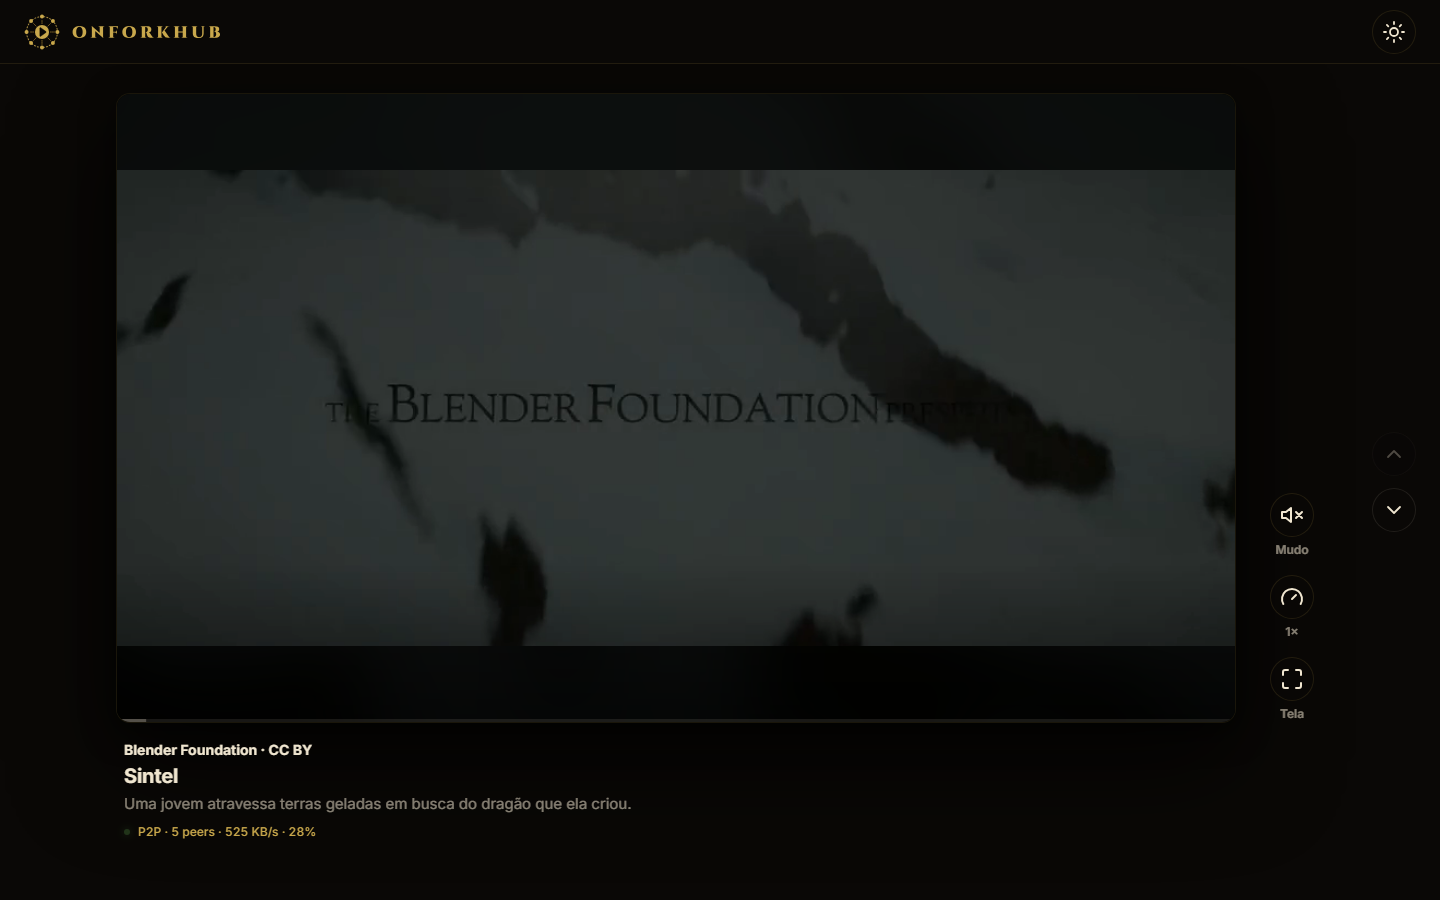
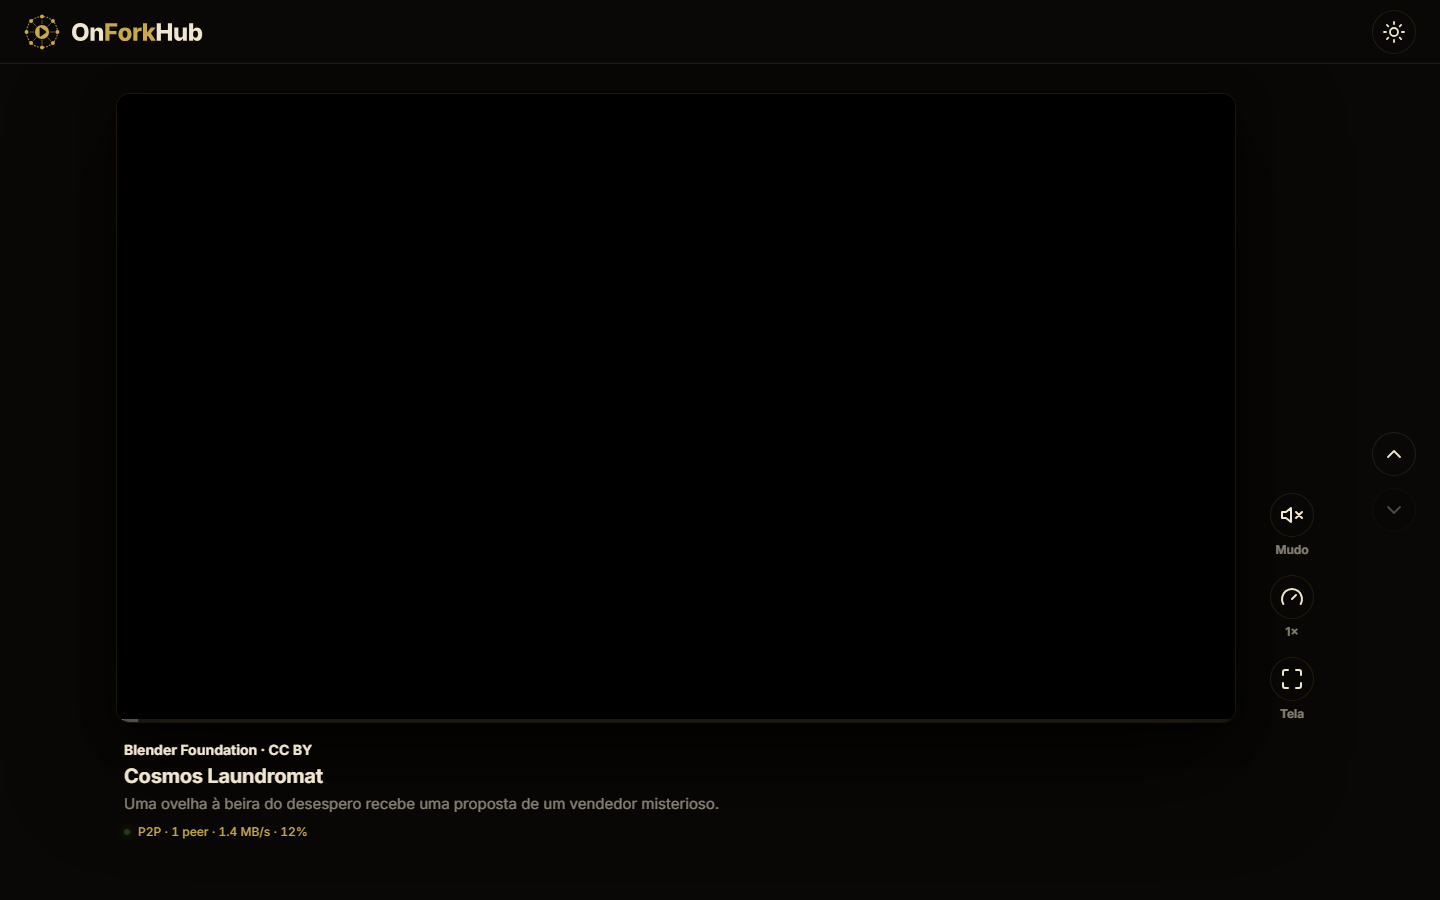
docs: describe the current architecture, P2P playback and tests
README gains the layer table, API overview, web and P2P playback notes, test
commands and links to the seeder, roadmap and design system, and the
screenshots show the new wordmark. WEBTORRENT_INTEGRATION.md is rewritten for
the real components (the C# WebTorrentService, P2PVideoPlayer and the 5 s
HTTP fallback no longer exist). ROADMAP.md updates the status and test counts.

diff --git a/docs/WEBTORRENT_INTEGRATION.md b/docs/WEBTORRENT_INTEGRATION.md
@@ -1,30 +1,47 @@
 # WebTorrent P2P Integration - OnForkHub
 
-Esta documentação descreve como o sistema de compartilhamento de vídeo P2P (WebTorrent) está implementado no OnForkHub.
+Esta documentação descreve como a reprodução P2P (WebTorrent 2.x) funciona hoje no OnForkHub.
 
 ## Arquitetura
 
-O sistema utiliza a biblioteca **WebTorrent.js** para permitir que os usuários compartilhem partes do vídeo diretamente entre si, reduzindo a carga nos servidores de armazenamento e custos de banda.
+O navegador baixa o vídeo em pedaços de vários peers e de web seeds HTTP ao mesmo tempo, e já começa a tocar enquanto baixa. Isso reduz a banda de saída do servidor: quanto mais gente assiste, mais peers o vídeo tem.
 
 ### Componentes
 
-1.  **WebTorrentService (C#)**: Serviço de interoperabilidade (JS Interop) no Blazor que expõe as funcionalidades do WebTorrent para o código .NET.
-2.  **webtorrentService.js**: Módulo JavaScript que encapsula a biblioteca WebTorrent.js e gerencia o cliente P2P no navegador.
-3.  **P2PVideoPlayer (Razor)**: Componente de UI que renderiza o vídeo via P2P, mostra estatísticas em tempo real (peers, progresso, velocidades) e gerencia o fallback para CDN.
-4.  **IVideoService.EnableTorrentAsync**: Endpoint na API que permite associar um Magnet URI a um vídeo existente.
+1.  **`wwwroot/js/webtorrentService.js`**: encapsula o cliente WebTorrent 2.x. Expõe `startDownload`, `stopDownload`, `getTorrentStats`, `createTorrent`, `updateConfig` (limites de banda) e `disposeWebTorrent`.
+2.  **`wwwroot/webtorrent-sw.min.js`**: service worker do WebTorrent. O arquivo é transmitido por ele direto para o elemento `<video>` (`file.streamTo(video)`), então o decodificador nativo do navegador cuida dos formatos e do seek.
+3.  **`wwwroot/lib/webtorrent`**: a biblioteca, incluída no projeto (sem CDN).
+4.  **`wwwroot/js/shortsFeed.js`**: o feed de shorts. Carrega um vídeo por vez, mostra o estado do carregamento e as estatísticas (peers, velocidade, progresso).
+5.  **`Services/ShortsCatalog.cs`**: catálogo fixo do feed. São filmes abertos da Blender Foundation publicados como `.torrent` com web seeds HTTP, então tocam mesmo sem nenhum outro peer online.
+6.  **`IVideoService.EnableTorrentAsync`** (API): associa um Magnet URI a um vídeo existente.
+7.  **`tools/p2p-seeder`**: worker Node experimental que semeia os vídeos armazenados. Veja o [README do seeder](../tools/p2p-seeder/README.md).
 
-## Fluxo de Funcionamento
+## Fluxo de funcionamento
 
-1.  **Seed**: Quando um vídeo é carregado ou processado, um Magnet URI pode ser gerado semeando o arquivo a partir do navegador do autor ou de um servidor de seeding.
-2.  **Download**: Quando um usuário assiste a um vídeo com P2P ativado:
-    *   O navegador tenta se conectar a outros peers via trackers WebRTC.
-    *   O vídeo é baixado em pedaços (chunks) de múltiplos peers simultaneamente.
-    *   O vídeo é "anexado" ao elemento HTML5 video à medida que os chunks chegam.
-3.  **Fallback**: Se não houver peers disponíveis após 5 segundos, o player alterna automaticamente para o streaming convencional via HTTP (CDN/Storage).
+1.  **Origem**: `startDownload` aceita um Magnet URI ou a URL de um arquivo `.torrent`.
+2.  **Cliente**: na primeira chamada o cliente é criado e o service worker é registrado e ativado. Service workers exigem HTTPS ou `localhost`.
+3.  **Download**: o cliente se conecta a peers por trackers WebRTC e a web seeds HTTP. O maior arquivo `.mp4`, `.m4v` ou `.webm` do torrent é o filme.
+4.  **Reprodução**: o arquivo é ligado ao `<video>` por streaming e a promessa resolve quando o navegador consegue tocar (`canplay`).
+5.  **Encerramento**: `stopDownload` destrói o torrent e libera a memória dos pedaços.
+
+## Decisões que importam
+
+*   **Pedaços em memória.** O armazenamento padrão do WebTorrent no navegador (OPFS) levava 20 a 30 s, ou nunca terminava, para preparar um arquivo do tamanho de um filme antes do primeiro byte. Com um store em memória (`MemoryChunkStore`) o torrent fica pronto em cerca de 1 s. Os pedaços só existem enquanto o torrent está ativo.
+*   **Timeout por inatividade.** A falha só acontece depois de 30 s sem receber nenhum dado (`STALL_TIMEOUT_MS`). O relógio reinicia a cada evento `download`, então downloads lentos mas ativos continuam.
+*   **Um vídeo por vez.** O feed carrega só o vídeo ativo. O próximo é pré-carregado depois que o atual começa a tocar, para os dois não disputarem a banda.
+*   **Sem fallback para HTTP no player.** Os web seeds do próprio torrent cobrem a falta de peers. Um fallback para a URL de streaming da API não está implementado.
+
+## Testes
+
+```bash
+node --test tests/webtorrentService.test.mjs
+```
+
+Os testes usam um cliente WebTorrent falso, e rodam também no CI (`player-tests.yml`).
 
 ## Configuração
 
-Os trackers utilizados são os padrões do WebTorrent. Para ambientes de produção, recomenda-se configurar trackers privados ou próprios para garantir maior conectividade.
+Os trackers são os padrões do WebTorrent. Em produção, recomenda-se configurar trackers próprios para melhor conectividade.
 
 ```javascript
 // Exemplo de Magnet URI suportado
@@ -33,6 +50,6 @@ Os trackers utilizados são os padrões do WebTorrent. Para ambientes de produç
 
 ## Benefícios
 
-*   **Escalabilidade**: Quanto mais pessoas assistem, mais rápida e resiliente se torna a rede.
-*   **Redução de Custos**: Menor uso de banda de saída do provedor de nuvem.
-*   **Performance**: Em redes locais ou densas, a velocidade pode superar o download convencional.
+*   **Escalabilidade**: quanto mais pessoas assistem, mais rápida e resiliente fica a rede.
+*   **Redução de custos**: menor uso de banda de saída do provedor de nuvem.
+*   **Performance**: em redes locais ou densas, a velocidade pode superar o download convencional.

diff --git a/README.md b/README.md
@@ -42,15 +42,58 @@ The web app is a vertical shorts feed. Each video streams over WebTorrent 2.x an
 - **Theme**: follows the system setting; the sun/moon button switches it and the choice is saved.
 - **Design system**: tokens in `wwwroot/css/mrbur`, OnForkHub components in `wwwroot/css/ofh.css`, and a style guide at `/design-system.html`.
 
+## 🧱 Architecture
+
+The solution (`OnForkHub.slnx`) follows a layered, DDD-style layout. Dependencies point inward: presentations depend on application and core, never the reverse.
+
+| Layer | Project | Responsibility |
+| --- | --- | --- |
+| Core | `OnForkHub.Core` | Entities, value objects, validations and service/repository interfaces |
+| Core | `OnForkHub.Application` | Use cases: videos, uploads, torrents, notifications, users, transcoding |
+| Infrastructure | `OnForkHub.Persistence` | EF Core contexts, mappings, migrations and repositories |
+| Shared | `OnForkHub.Abstractions` | Result types, request/response contracts and shared helpers |
+| Shared | `OnForkHub.CrossCutting` | Convention-based dependency injection, caching, logging and localization |
+| Shared | `OnForkHub.Scripts` | Build and developer scripts |
+| Presentation | `OnForkHub.Api` | Minimal-API REST endpoints (`/api/v1`), JWT auth, SignalR hub, Swagger |
+| Presentation | `OnForkHub.Web` | Blazor WebAssembly app: the shorts feed and the embed player |
+| Tooling | `tools/p2p-seeder` | Experimental Node worker that seeds stored videos over WebRTC |
+
+Services and repositories are registered by convention in `OnForkHub.CrossCutting`, so a new implementation only needs to follow the naming rules instead of being wired by hand. Request and response models end in `Request` / `Response`.
+
+### API
+
+Endpoints live under `src/Presentations/OnForkHub.Api/Endpoints/Rest/V1`, one class per route:
+
+- **Auth**: register, login, refresh token
+- **Videos**: create, update, delete, list, search, recommendations, ratings, comments, views, chunked upload (initiate, chunk, status, publish), streaming, torrent enable and stats
+- **Categories**: CRUD and search
+- **Users**: profile, favorites, view history
+- **Notifications**: list, unread, mark read, archive, delete, plus the `NotificationHub` for live updates
+
+Swagger is available at `/swagger` when the API runs in Development. See [docs/API_REFERENCE.md](docs/API_REFERENCE.md) for details.
+
+### Web app and P2P playback
+
+The home route (`/`) is the shorts feed, fed by a fixed catalog of open Blender Foundation movies (`Services/ShortsCatalog.cs`) published as torrents with HTTP web seeds, so they play even when no peer is online. `/embed/{id}` embeds a single video.
+
+Playback is handled by two modules in `wwwroot/js`:
+
+- `webtorrentService.js` wraps WebTorrent 2.x. Files stream through a service worker (`webtorrent-sw.min.js`) straight into the `<video>` element, so the browser handles seeking and formats. Pieces are kept in memory (the default OPFS store took 20-30 s to prepare a movie-sized file), and a download is abandoned only after 30 s without any data.
+- `shortsFeed.js` drives the feed: one active video at a time, next-video preload once the current one plays, gestures, speed and framing preferences, fullscreen, and the light/dark theme.
+
+Service workers need HTTPS or `localhost`. To test on a phone, expose the app through an HTTPS tunnel.
+
 ## 🛠 Tech Stack
 
 ### Core Technologies
 
 - **🎯 Backend**: .NET 10 with ASP.NET Core
-- **🌐 Frontend**: Blazor WebAssembly
-- **💾 Databases**: SQL Server (EF Core), Redis cache
-- **📦 Storage**: Azure Blob Storage/AWS S3
-- **🔄 P2P**: WebTorrent
+- **🌐 Frontend**: Blazor WebAssembly (shorts feed, MrBur design system)
+- **💾 Data**: SQL Server (EF Core, ASP.NET Identity), Redis distributed cache
+- **📦 Storage**: Local file storage or Azure Blob Storage
+- **🔐 Auth & real time**: JWT bearer tokens, SignalR notifications hub
+- **🔄 P2P**: WebTorrent 2.x in the browser (service-worker streaming), optional Node seeder
+- **🧪 Tests**: xUnit, FluentAssertions, NSubstitute, Node test runner
 - **🐳 Containers**: Docker
 
 ### Development Tools
@@ -262,6 +305,22 @@ cd src/Presentations/OnForkHub.Web
 dotnet watch run
 ```
 
+The shorts feed only needs the Web project: it does not call the API.
+
+#### Tests
+
+```bash
+# .NET: projects under test/
+dotnet test
+
+# JavaScript: player module, shorts feed syntax and seeder
+node --test tests/webtorrentService.test.mjs
+node --check src/Presentations/OnForkHub.Web/wwwroot/js/shortsFeed.js
+node --test tools/p2p-seeder/tests/*.test.mjs
+```
+
+The API integration tests need the services they target (see `test/Presentations/OnForkHub.Api.IntegrationTests`). The JavaScript checks also run in CI (`player-tests.yml`).
+
 #### 4. Git Aliases
 
 After setting up the project, you will have access to convenient Git aliases. They become available after restarting your terminal or running `. $PROFILE` in your terminal:
@@ -363,6 +422,10 @@ Comprehensive guides and references:
 - **[Troubleshooting Guide](docs/TROUBLESHOOTING.md)** - Solutions for common issues
 - **[FAQ](docs/FAQ.md)** - Frequently asked questions
 - **[Architecture](docs/ARCHITECTURE.md)** - System design and improvements
+- **[WebTorrent Integration](docs/WEBTORRENT_INTEGRATION.md)** - How P2P playback works
+- **[P2P Seeder](tools/p2p-seeder/README.md)** - Experimental WebRTC seeding worker
+- **[Roadmap](ROADMAP.md)** - Status and planned work
+- **[Design system](src/Presentations/OnForkHub.Web/wwwroot/design-system.html)** - Brand, tokens, icons and controls (served at `/design-system.html`)
 
 ## 🤝 Contributing
 

diff --git a/ROADMAP.md b/ROADMAP.md
@@ -1,6 +1,6 @@
 # OnForkHub Development Roadmap
 
-Last Updated: January 11, 2026
+Last Updated: October 31, 2026
 
 ---
 
@@ -9,13 +9,16 @@ Last Updated: January 11, 2026
 ### Completed
 - **Core Architecture**: DDD, SOLID principles implementation
 - **Build System**: Clean, StyleCop compliant (SA1412, SA1305, SA1210, SA1501 fixed)
-- **Tests**: 372 unit tests passing
+- **Tests**: 606 .NET unit tests (Core 293, Application 155, CrossCutting 149, Persistence 9) and 17 JavaScript tests passing
 - **Documentation**: Comprehensive guides (API, Architecture, FAQ, Troubleshooting)
 - **Git Flow**: Configured with automatic PR creation via `dtn` CLI
 - **Deployment**: Docker containerization and VPS deployment functional
 - **Phase 1**: Error Handling & Validation (GlobalExceptionHandlerMiddleware, ValidationException, InMemoryErrorLogger, Localization EN/PT-BR)
 - **Phase 2**: Performance & Caching (Redis distributed caching, Response compression, Pagination utilities)
 - **Phase 3**: Security Enhancement (Rate Limiting, JWT Authentication, Security Headers)
+- **Shorts feed**: full-screen vertical feed for mobile and desktop, with gestures, speed and framing controls
+- **P2P playback**: WebTorrent 2.x streaming through a service worker, in-memory pieces, stall-based timeout, next-video preload
+- **Design system**: MrBur tokens plus the OnForkHub layer (brand mark, wordmark, icons, light and dark themes)
 
 ### In Progress
 - Integration tests for API endpoints
@@ -36,7 +39,7 @@ Last Updated: January 11, 2026
 - [ ] Torrent file generation for videos
 - [ ] Seeding/peer management
 - [ ] Bandwidth throttling
-- [ ] Progress tracking UI improvements
+- [x] Progress tracking UI improvements (loading steps, peers and speed in the feed)
 
 #### Phase 6: Analytics & Monitoring
 - [ ] View count tracking
@@ -47,7 +50,7 @@ Last Updated: January 11, 2026
 - [ ] Real-time monitoring alerts
 
 #### Phase 7: Mobile Support
-- [ ] Responsive UI improvements for mobile
+- [x] Responsive UI improvements for mobile
 - [ ] Mobile app consideration (React Native/Flutter)
 - [ ] Progressive Web App (PWA) enhancements
 - [ ] Offline capability study
